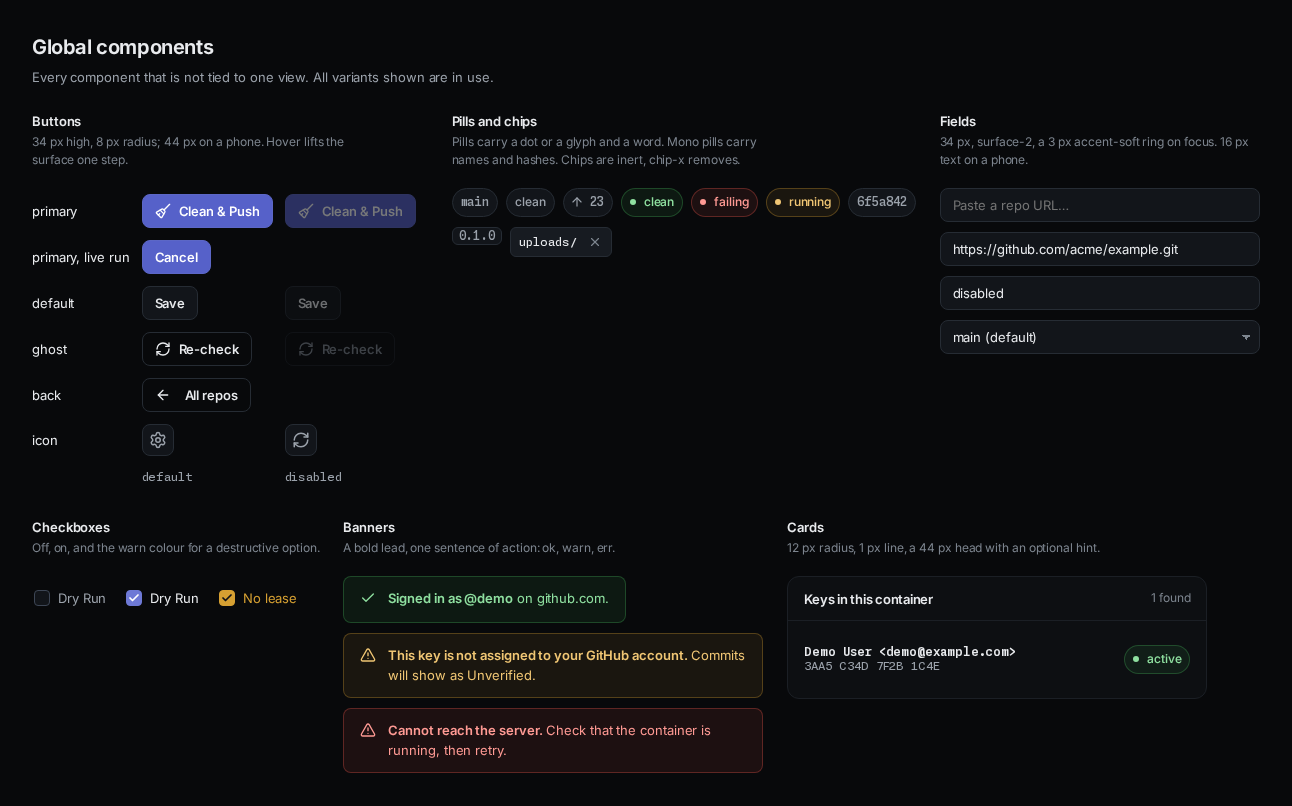
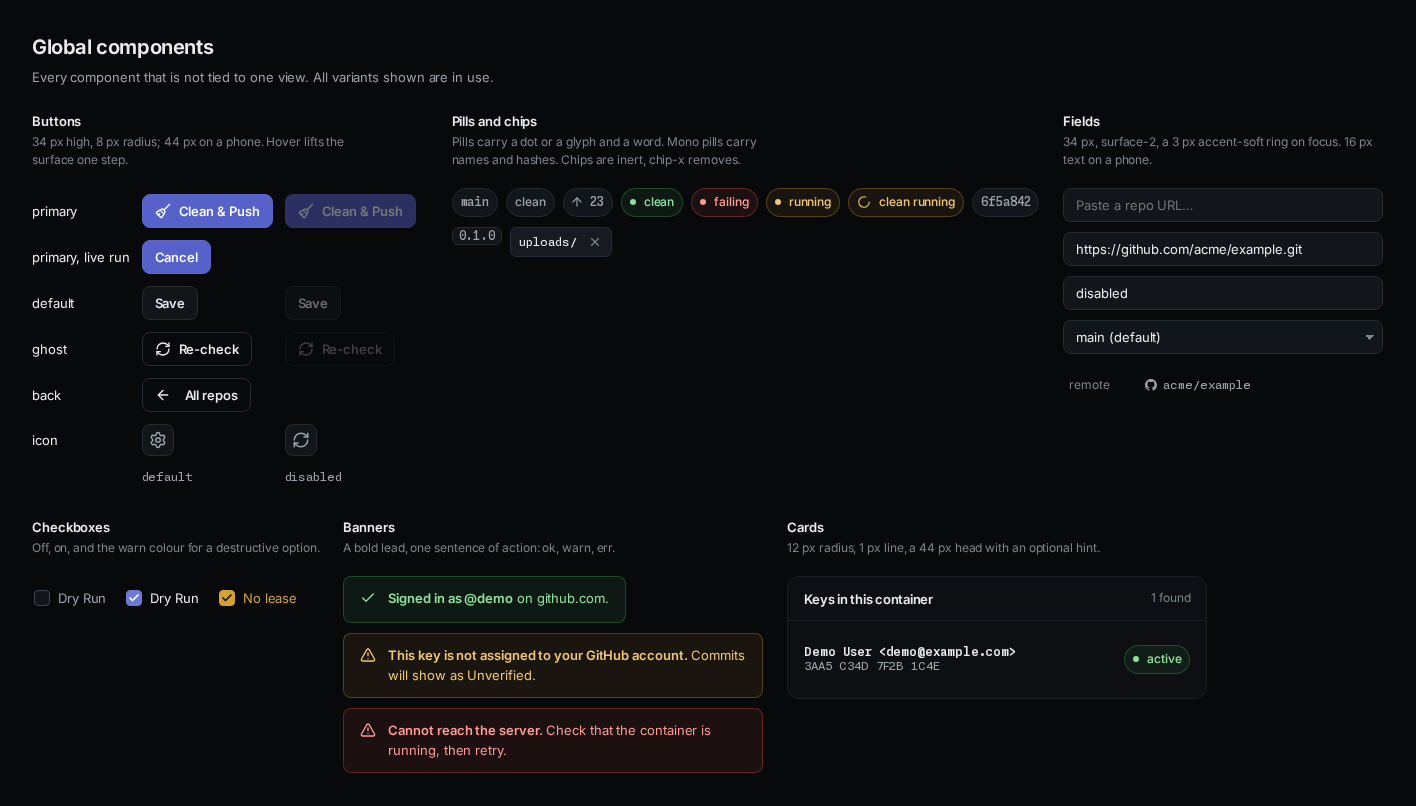
docs(design): board rows for the busy pill and the remote link

diff --git a/scripts/design_boards.py b/scripts/design_boards.py
@@ -529,6 +529,7 @@ def components_board(_: dict[str, bytes]) -> str:
     + pill("ok", "clean")
     + pill("err", "failing")
     + pill("warn", "running")
+    + pill("warn busy", f"{icon('loader-circle')}clean running", dot=False)
     + pill("mono", "6f5a842", dot=False)
     + "</div>"
     + '<div class="row" style="gap:8px"><span class="chip">0.1.0</span>'
@@ -538,7 +539,9 @@ def components_board(_: dict[str, bytes]) -> str:
     '<div class="col" style="width:320px"><input class="field" placeholder="Paste a repo URL…">'
     '<input class="field" value="https://github.com/acme/example.git">'
     '<input class="field" value="disabled" disabled>'
-    '<select class="field"><option>main (default)</option></select></div>'
+    '<select class="field"><option>main (default)</option></select>'
+    '<dl class="kv"><dt>remote</dt><dd class="mono">'
+    f'<a class="remote-link" href="#">{icon("github")}<span>acme/example</span></a></dd></dl></div>'
   )
   checks = (
     '<div class="checks">'
@@ -664,7 +667,7 @@ def style_board(_: dict[str, bytes]) -> str:
       for name in names
     )
     + '</div><p class="cap">Lucide glyphs inlined in index.html, drawn at 1 em in the text colour.'
-    + " broom-sparkles is also the app icon.</p>"
+    + " github is the Octicons mark, and broom-sparkles is also the app icon.</p>"
   )
   body = (
     '<div class="row">'
